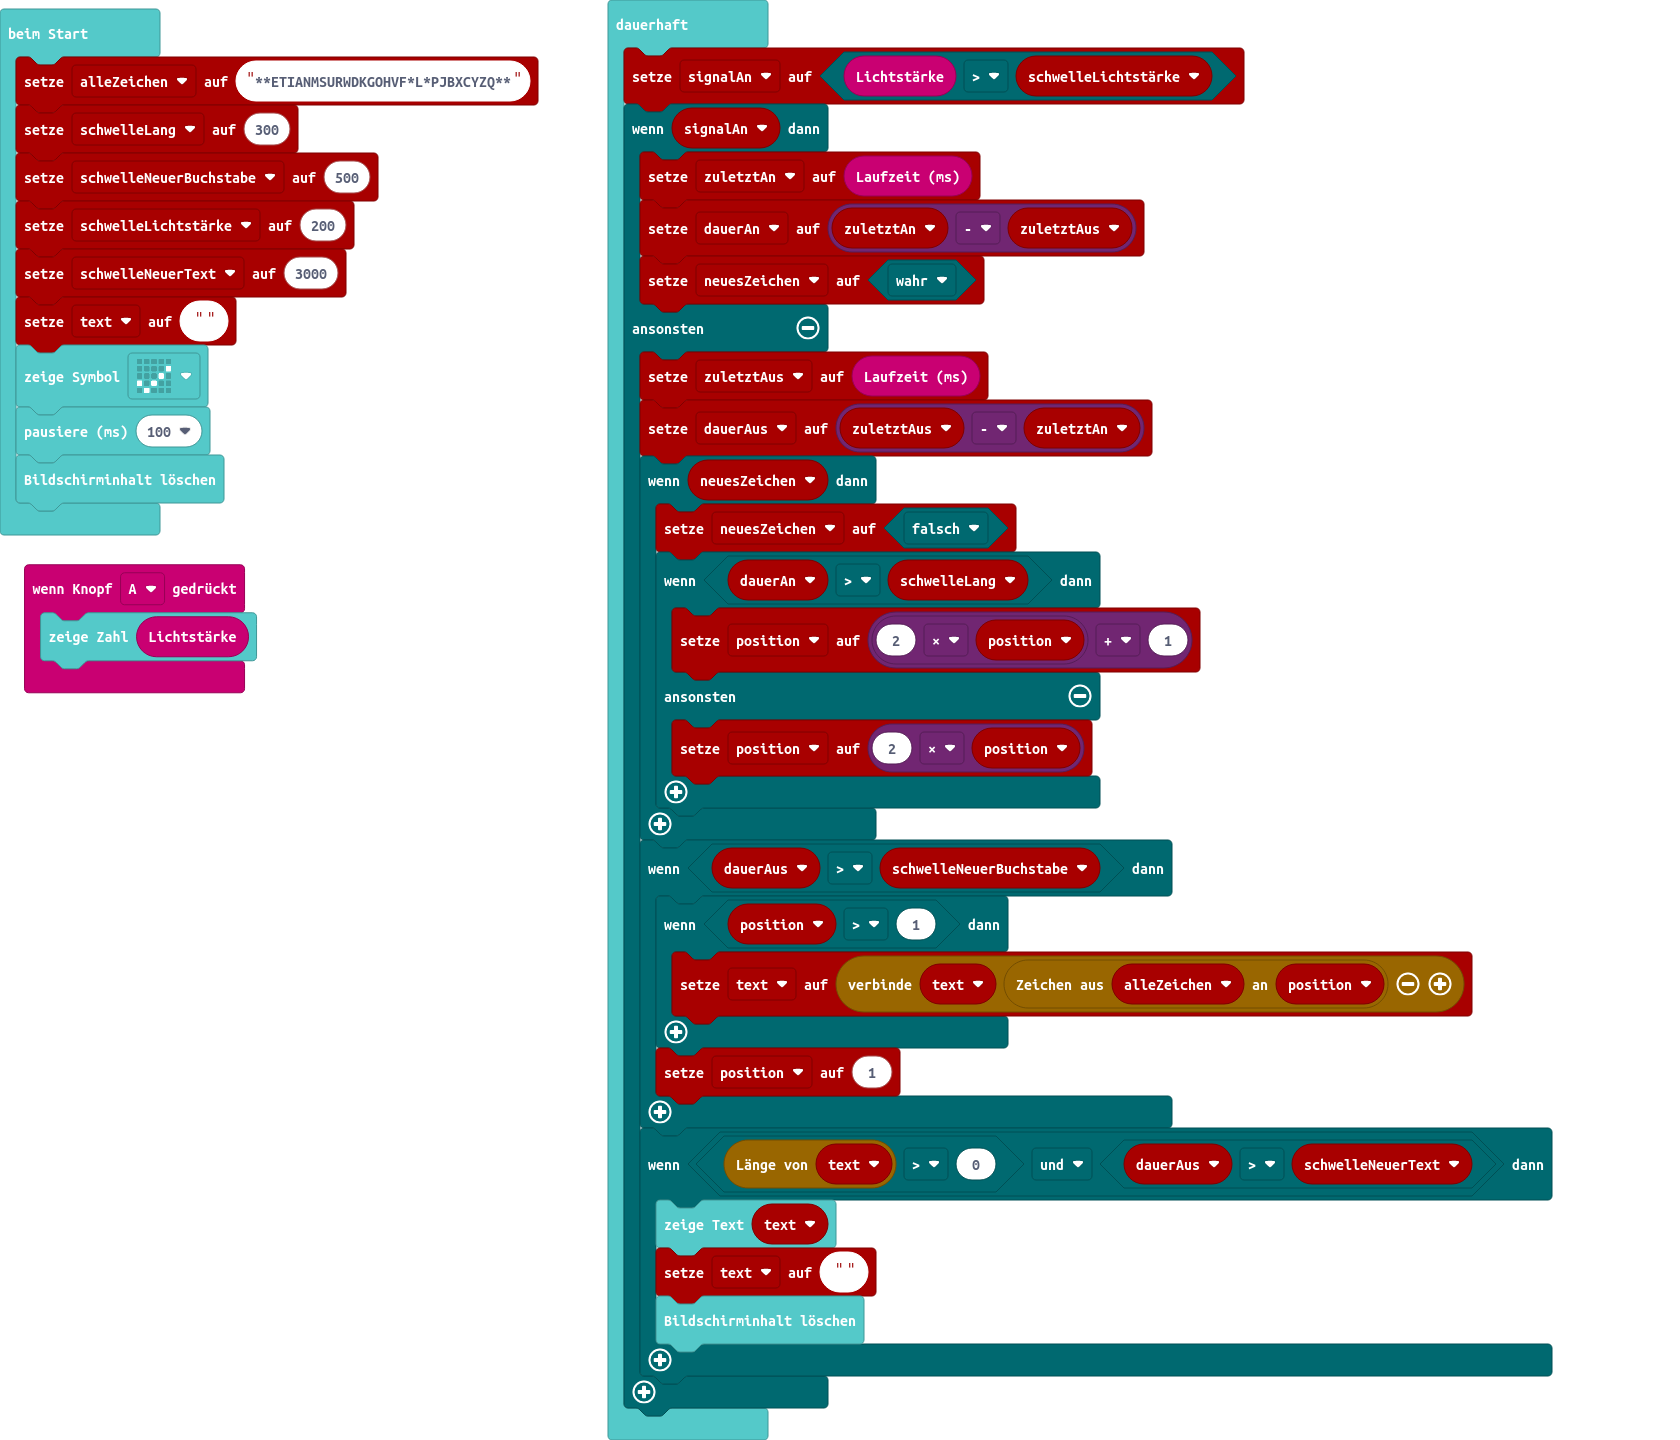
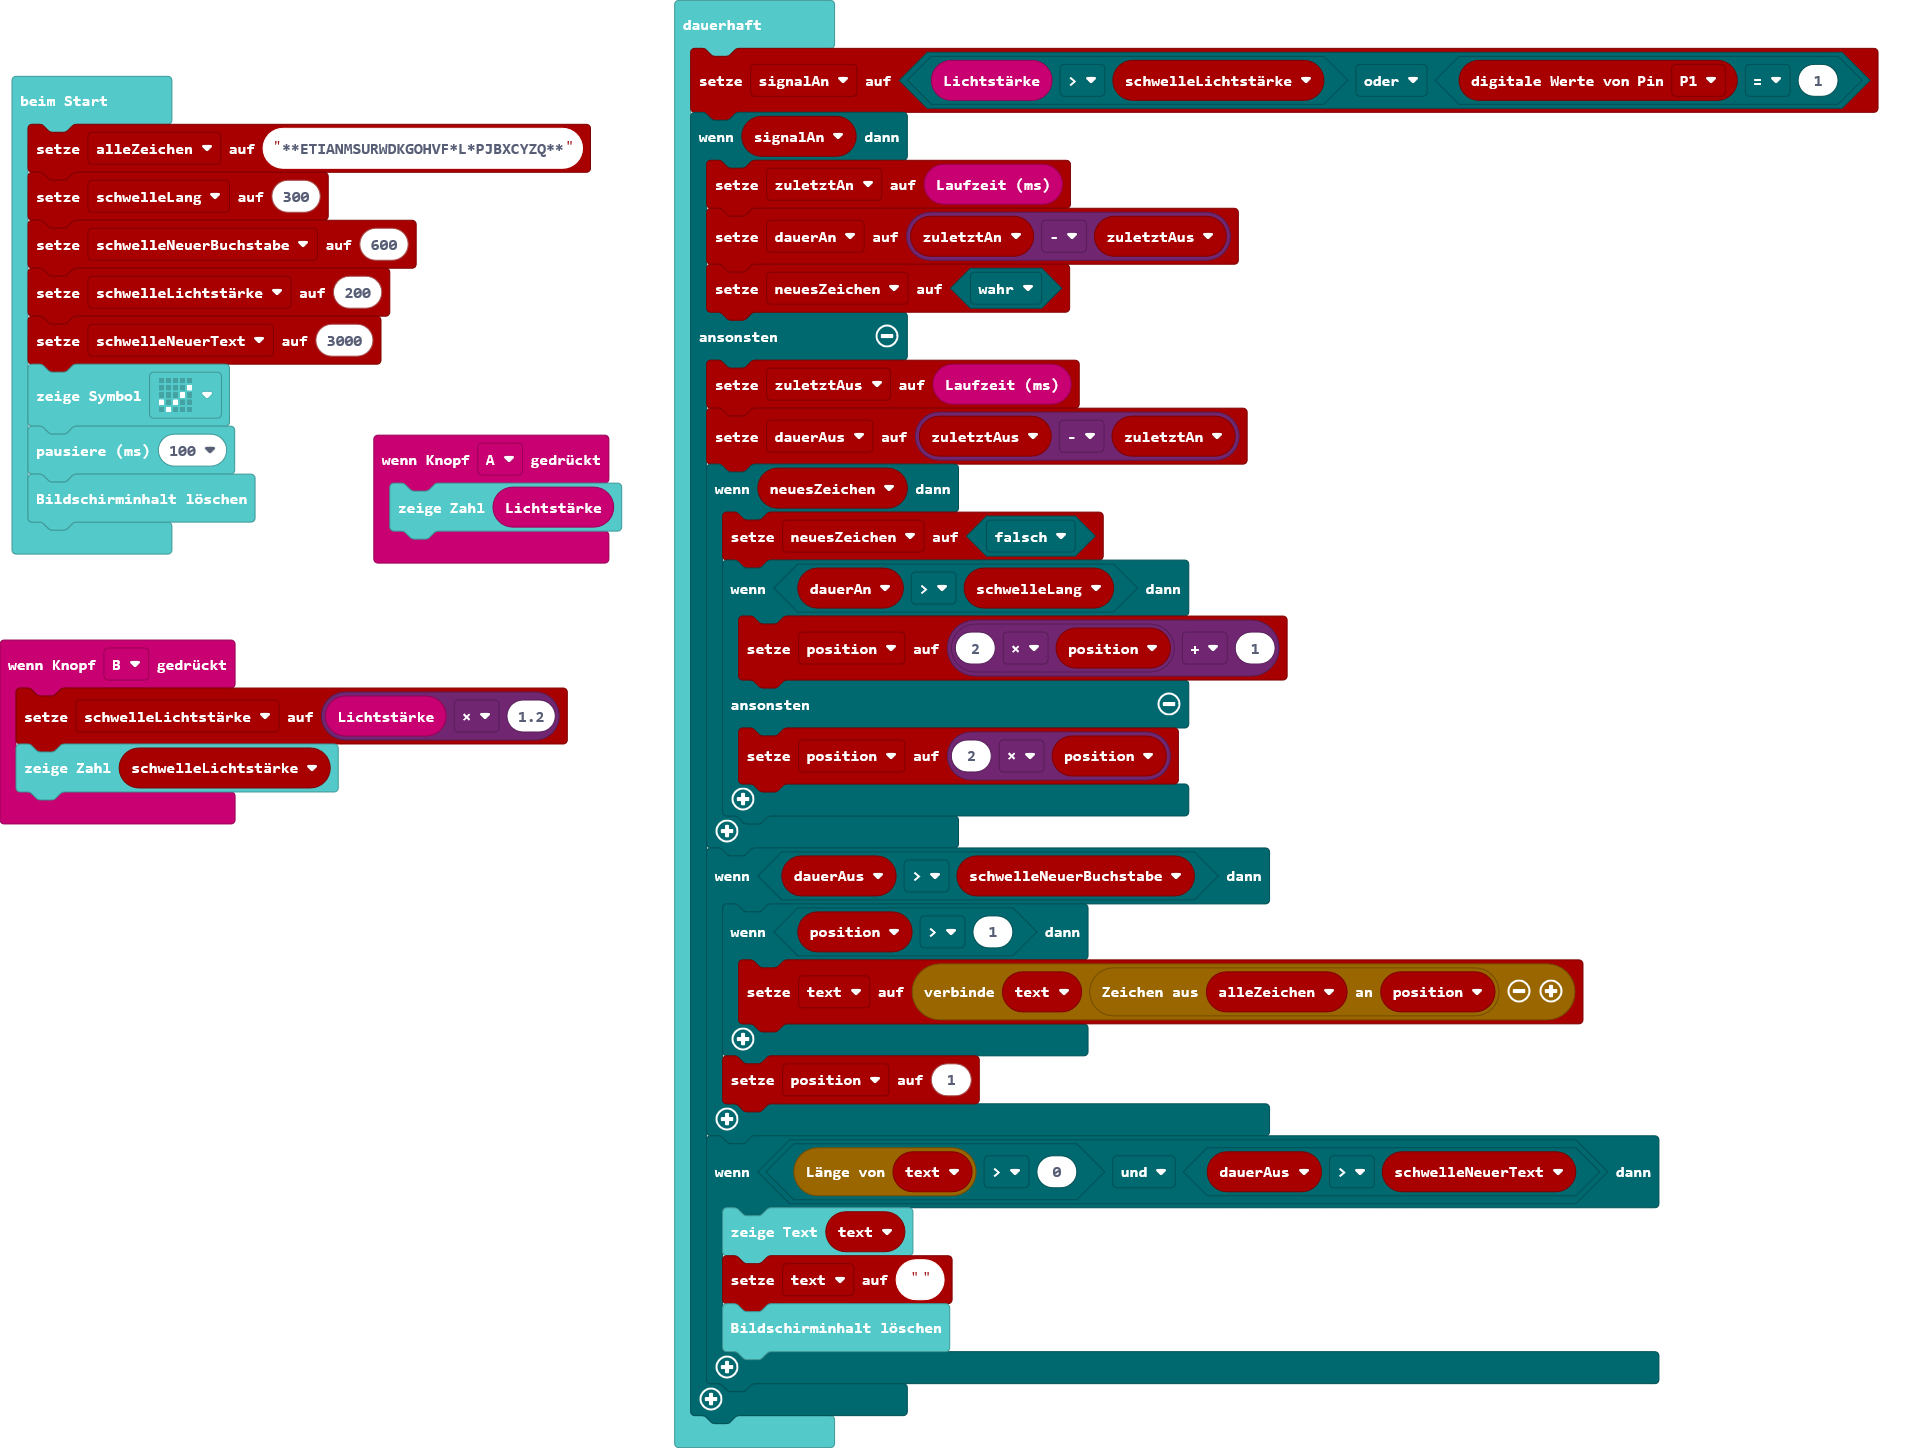
Aktualisiere main.blocks, main.ts

Changed region(s): [[0.0, 0.0, 0.9905, 1.0], [0.619, 0.75, 0.9286, 0.8438], [0.8357, 0.9062, 0.9286, 0.9688]]

diff --git a/main.ts b/main.ts
@@ -1,6 +1,11 @@
 input.onButtonPressed(Button.A, function () {
     basic.showNumber(input.lightLevel())
 })
+input.onButtonPressed(Button.B, function () {
+    schwelleLichtstärke = input.lightLevel() * 1.2
+    basic.showNumber(schwelleLichtstärke)
+})
+let text = ""
 let position = 0
 let dauerAus = 0
 let neuesZeichen = false
@@ -8,17 +13,17 @@ let zuletztAus = 0
 let dauerAn = 0
 let zuletztAn = 0
 let signalAn = false
+let schwelleLichtstärke = 0
 let alleZeichen = "**ETIANMSURWDKGOHVF*L*PJBXCYZQ**"
 let schwelleLang = 300
-let schwelleNeuerBuchstabe = 500
-let schwelleLichtstärke = 200
+let schwelleNeuerBuchstabe = 600
+schwelleLichtstärke = 200
 let schwelleNeuerText = 3000
-let text = ""
 basic.showIcon(IconNames.Yes)
 basic.pause(100)
 basic.clearScreen()
 basic.forever(function () {
-    signalAn = input.lightLevel() > schwelleLichtstärke
+    signalAn = input.lightLevel() > schwelleLichtstärke || pins.digitalReadPin(DigitalPin.P1) == 1
     if (signalAn) {
         zuletztAn = input.runningTime()
         dauerAn = zuletztAn - zuletztAus
